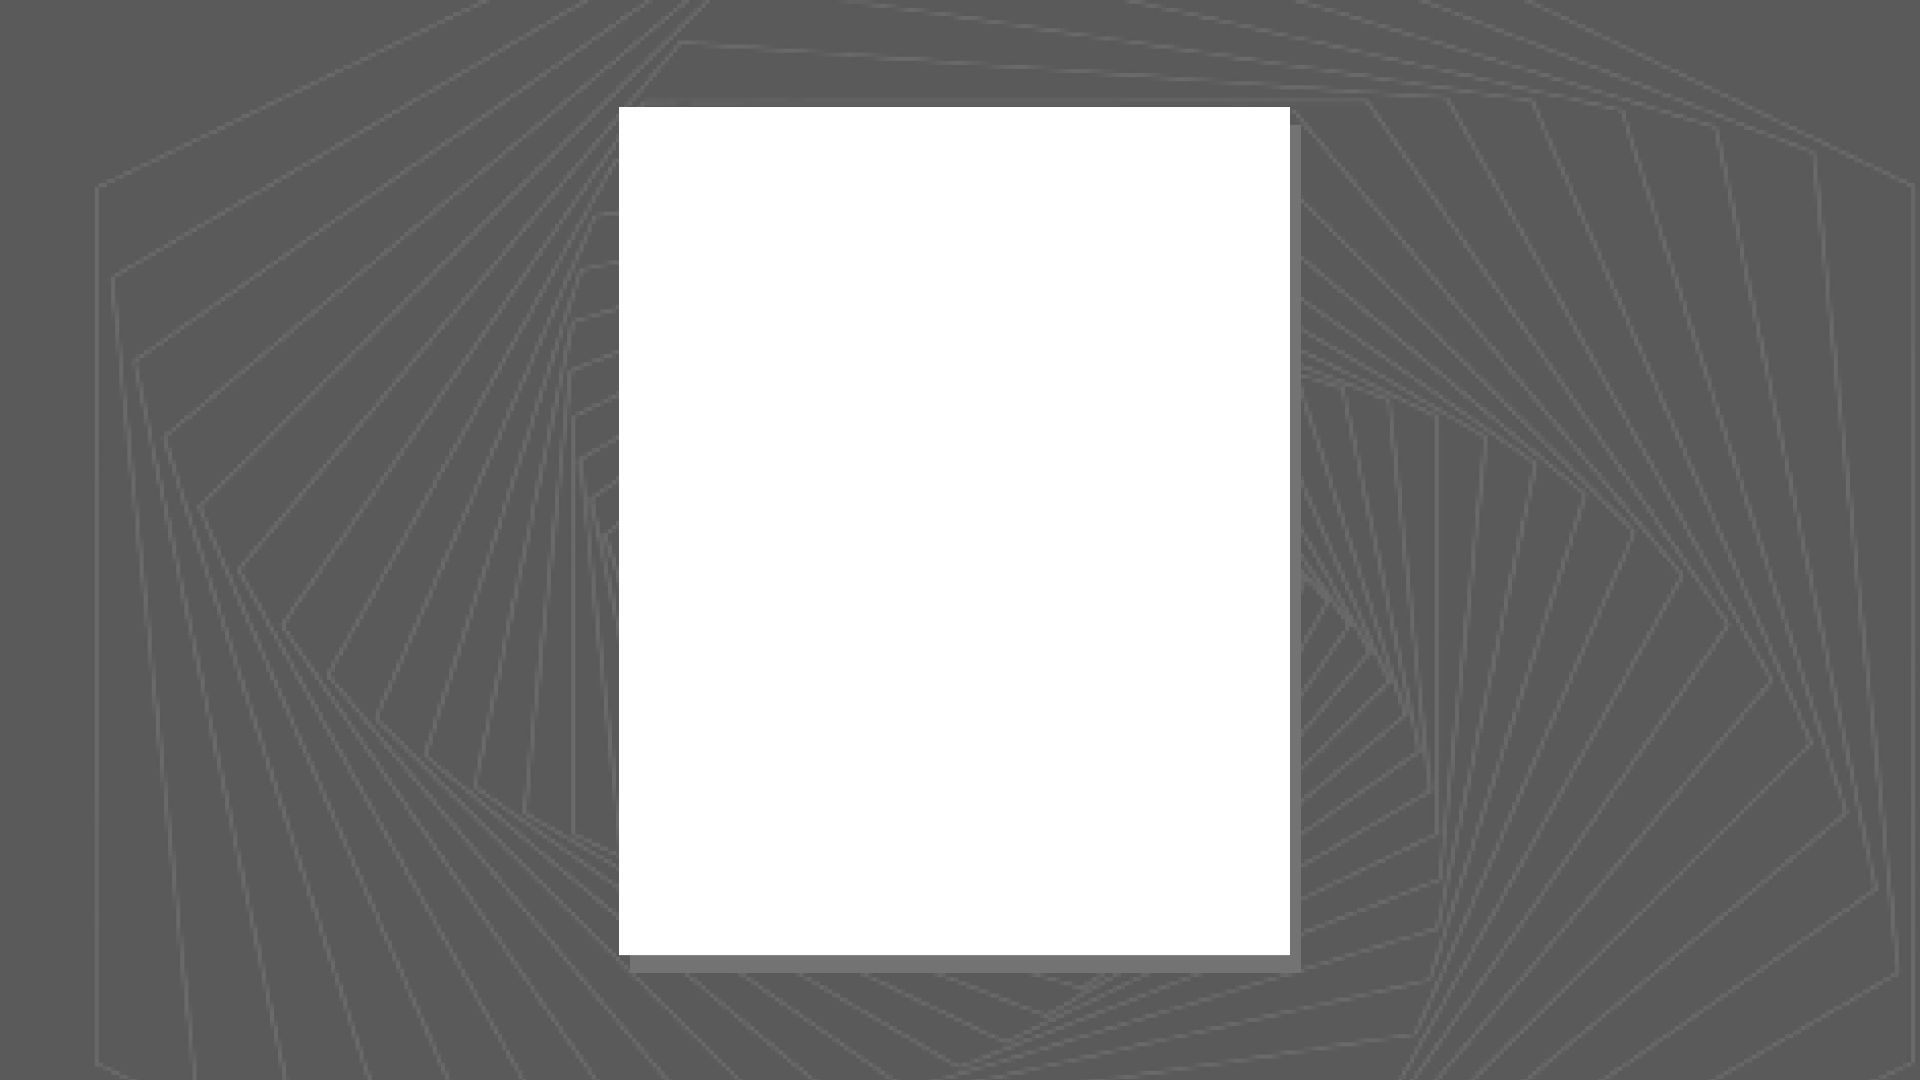
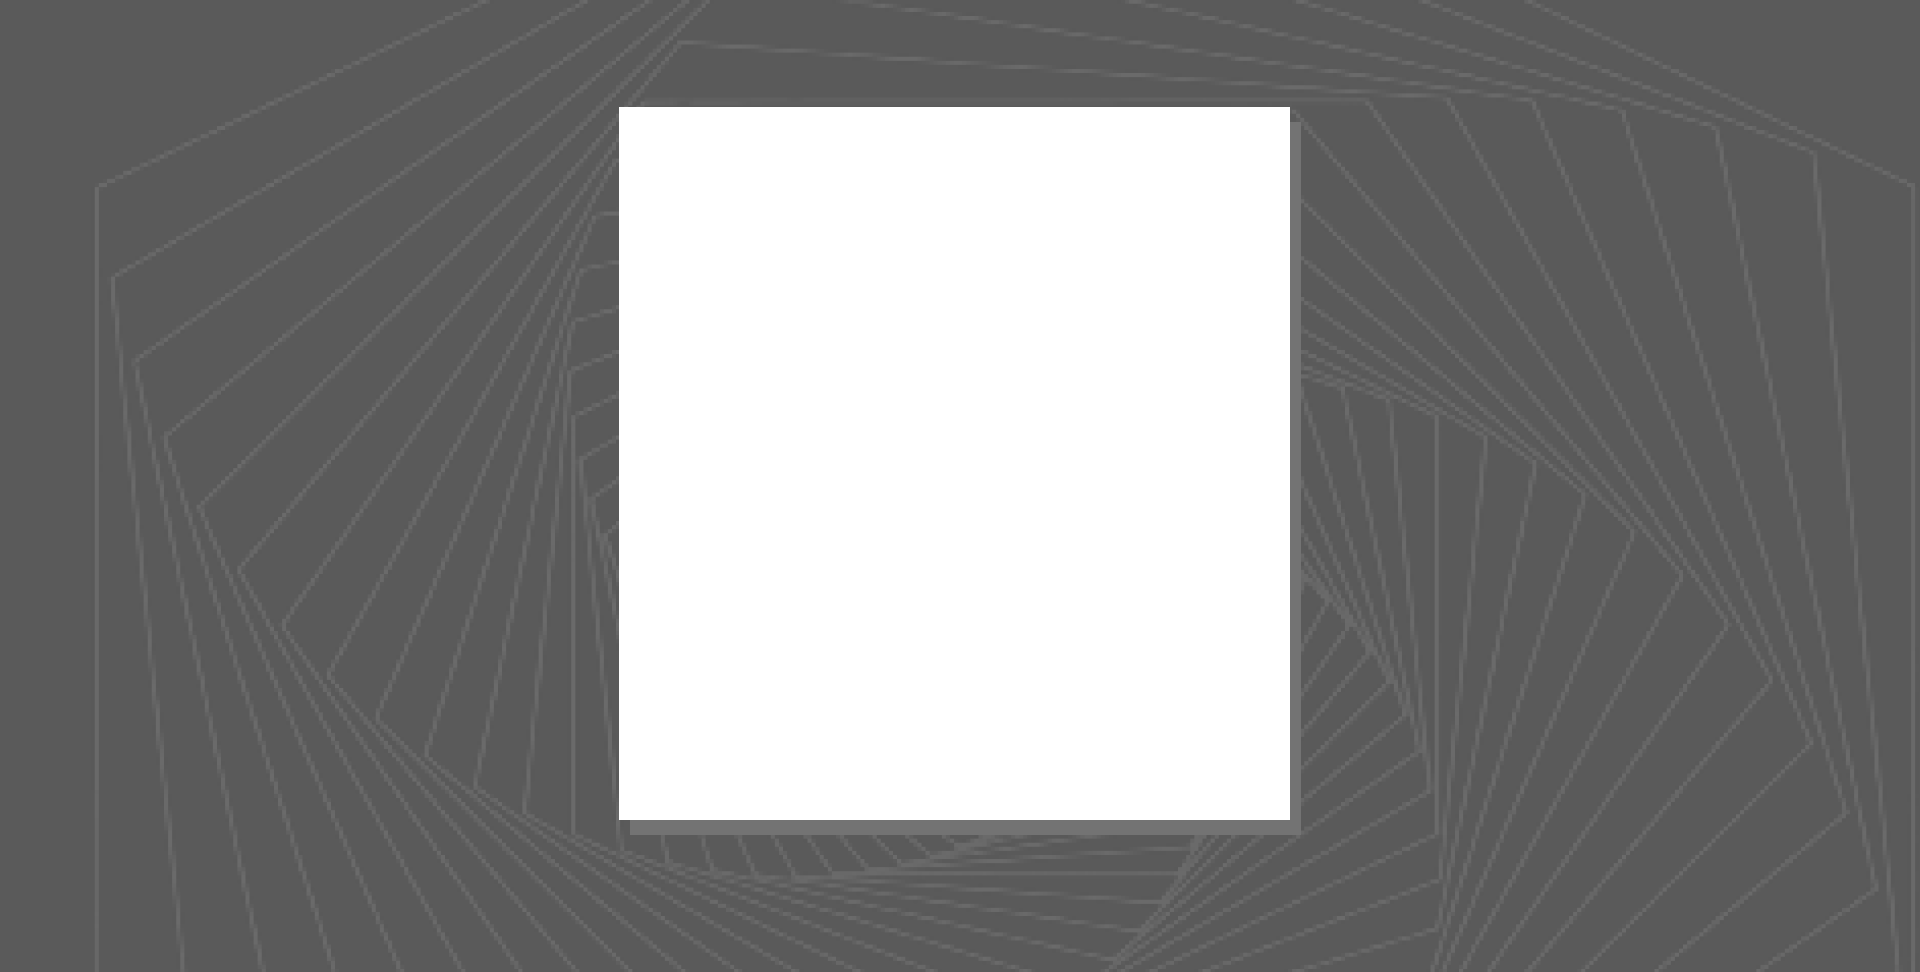
Update final Tela Busca

Changed region(s): [[0.3125, 0.8333, 0.6875, 0.9259], [0.3125, 0.0926, 0.6875, 0.1235]]

diff --git a/project-profiler/src/views/search.html b/project-profiler/src/views/search.html
@@ -24,6 +24,24 @@
         <div id="filhaSearch3">
             <p>Buscar Profissional</p>
         </div>
+
+        <div id="filhaSearch4">
+            <p class="label-form">Nome de usuário:</p>
+            <input type="text" class="form-control form-control-sm input-form" id="input-user">
+        
+            <p class="label-form">Email:</p>
+            <input type="text" class="form-control form-control-sm input-form" id="input-email">
+
+            <p class="label-form">Cargo atual:</p>
+            <input type="text" class="form-control form-control-sm input-form" id="input-cargo2">
+
+            <p class="label-form">Habilidades:</p>
+            <input type="text" class="form-control form-control-sm input-form" id="input-habilidades">
+        </div>
+
+        <div id="filhaSearch5">
+            <img alt="image" src="../static/images/buttons/button-search1.png" width="170" id="button-search1" type="submit" value="Buscar">
+        </div>
     </div>
 </body>
 <script src="https://cdn.jsdelivr.net/npm/bootstrap@5.2.3/dist/js/bootstrap.bundle.min.js" integrity="sha384-kenU1KFdBIe4zVF0s0G1M5b4hcpxyD9F7jL+jjXkk+Q2h455rYXK/7HAuoJl+0I4" crossorigin="anonymous"></script>

diff --git a/project-profiler/src/static/css/global.css b/project-profiler/src/static/css/global.css
@@ -167,7 +167,7 @@ div{
 
 #input-name, #input-cargo, #input-estado, #input-pais, #sobre-mim, #habilidades, #input-local, 
 #input-cargo1, #input-periodo, #input-curso, #input-instituicao, #input-telefone, #input-linkedin,
-#input-github, #input-instagram {
+#input-github, #input-instagram, #input-user, #input-email, #input-cargo2, #input-habilidades {
     padding-top: 1px;
     padding-bottom: 1px;
     background-color: #D9D9D9;
@@ -235,7 +235,7 @@ div{
     display:flex;
     justify-content: right;
     margin-right: 15px;
-    padding-top: 20px;
+    padding-top: 40px;
 }
 
 #filhaSearch2 {
@@ -250,6 +250,18 @@ div{
     font-family: Futura;
     color: black;
     padding-top: 20px;
+}
+
+#filhaSearch4 {
+    padding-left: 380px;
+    padding-right: 380px;
+}
+
+#filhaSearch5 {
+    display: flex;
+    justify-content: center;
+    padding-top: 50px;
+    padding-bottom: 250px;
 }
 
 .Footer{
